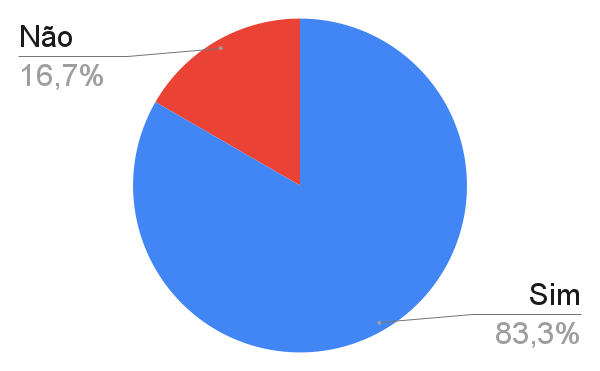
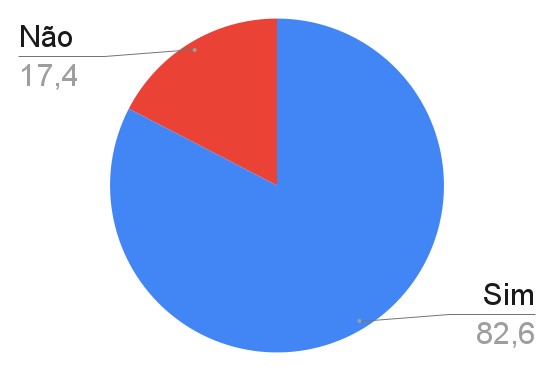
docs: Adição das ultimas coisas de requisitos

diff --git a/docs/relato-cliente/relato-sprint2.md b/docs/relato-cliente/relato-sprint2.md
@@ -27,46 +27,50 @@ Para a sprint 2 o feedback do cliente foi dividido em dois aspectos principais: 
 
 Os comentários nesta seção dizem respeito diretamente à experiência do usuário com o sistema.
 
-- [Melhorar o foco da página quando o usuário a acessa ✔](https://github.com/FGA-REQ/2024.2-6EspiasDemais/commit/0a6567bf430009604420bea5ab89853e76c0fead)
+- [adiciona o toast de cadastro ✔](https://github.com/FGA-REQ/2024.2-6EspiasDemais/commit/2c20aecd9a942897461d1d26d88d5664d29d98ea)
 
-- [Adicionar explicação sobre os formulários ✔](https://github.com/FGA-REQ/2024.2-6EspiasDemais/commit/ff45e7f0c5aa6c60420b84d77e9d450778846f47)
+- [adiciona o toast de publicação ✔](https://github.com/FGA-REQ/2024.2-6EspiasDemais/commit/339a94600eca4b92fb94ddbe7b81bbc8f7fd101f)
 
-- [Trocar a mensagem de erro "Not Found" quando não há artigos disponíveis ✔](https://github.com/FGA-REQ/2024.2-6EspiasDemais/commit/717d923961aa777b15129c2ca8401addfe6b8b66)
+- [adiciona o toast de edição e modal✔](https://github.com/FGA-REQ/2024.2-6EspiasDemais/commit/f38625f28715ee3127a1a4d3222b906ff2b30985)
 
-- [Adicionar a categoria nos artigos ✔](https://github.com/FGA-REQ/2024.2-6EspiasDemais/commit/4c3e31f58627b26355aa1ccee0fbc8e9525eceb5)
+- [adiciona o toast de exclusão ✔](https://github.com/FGA-REQ/2024.2-6EspiasDemais/commit/f38625f28715ee3127a1a4d3222b906ff2b30985)
 
 #### Feedback sobre o Formulário
 
-Os feedbacks desta seção dizem respeito à experiência do cliente ao preencher o formulário de validação do sistema:
+Os feedbacks desta seção dizem respeito à experiência do cliente ao preencher o formulário de validação. Um problema identificado foi uma pergunta repetida com diferentes propostas, gerando confusão. O erro poderia ter sido evitado com revisão prévia ou simulação do preenchimento do formulário.
 
-- As perguntas estavam pouco claras; sugeriu-se o uso de palavras mais objetivas.
-- As imagens fornecidas não foram suficientes; o cliente precisou rodar o sistema em seu próprio computador para validar as informações.
-- A explicação das perguntas deveria ser melhorada para garantir maior compreensão.
-- Foi solicitado remover os cartões das User Stories dos formulários, pois isso não era necessário para o contexto da validação.
+<font size="3"><p style="text-align: left">**Tabela 1** - Problema com as perguntas duplicadas.</p></font>
+
+| Pergunta problemática | Resposta |
+|-----------------------|----------|
+| Caso nenhum artigo tenha sido publicado, é mostrada a mensagem "Sem artigos publicados, que tal fazer uma publicação?"? | Sim |
+| Caso o usuário não tenha realizado nenhuma publicação, é exibida a mensagem "Você ainda não publicou nenhum artigo"? | A mensagem relatada na pergunta não aparece dessa forma. Mas a forma que está no site está ótima. |
+
+Autor(es): [João Vitor](https://github.com/Jauzimm), 2025.
 
 ## Formulario
 
-As perguntas feitas no formulário têm suas respostas como "Sim" ou "Não". Aqui se encontram apenas as perguntas e suas respostas, onde o foco é apenas na coleta de dados e documentação, com a inferência de um gráfico ao final, apresentando a porcentagem de aceitação pelo usuário.
+As perguntas feitas no formulário têm suas respostas como "Sim", "Não" ou "Observação". Aqui se encontram apenas as perguntas e suas respostas, onde o foco é apenas na coleta de dados e documentação, com a inferência de um gráfico ao final, apresentando a porcentagem de aceitação pelo usuário.
 
 ## Formulário de Cadastro
 
-<font size="3"><p style="text-align: left">**Tabela 1** - Respostas do formulário de cadastro.</p></font>
+<font size="3"><p style="text-align: left">**Tabela 2** - Respostas do formulário de cadastro.</p></font>
 
 | Pergunta | Resposta |
 |----------|---------|
 | O formulário de cadastro está acessível através de um link escrito "Acessar", localizado na parte superior da página, que direciona o usuário para a página de cadastro? | Sim |
 | Os campos "Nome", "E-mail" e "Senha" estão presentes e são marcados como obrigatórios? O botão "Cadastrar" permanece desativado até que todos os campos obrigatórios sejam preenchidos corretamente? | Sim |
 | O sistema valida se a senha possui os critérios mínimos de 8 caracteres, 1 letra minúscula e 1 letra maiúscula? | Sim |
-| Após o envio do formulário, o sistema exibe uma mensagem de sucesso ("Cadastro realizado com sucesso! Você já pode fazer login") ou, em caso de erro, uma mensagem clara e específica (por exemplo, "E-mail já cadastrado")? | Não |
+| Após o envio do formulário, o sistema exibe uma mensagem de sucesso ("Cadastro realizado com sucesso!") e o usuário é redirecionado para a página de Perfil, ou, em caso de erro, uma mensagem clara e específica (por exemplo, "E-mail já cadastrado")? | Não |
 | Observações | Nenhuma |
 
 ## Formulário de Acesso
 
-<font size="3"><p style="text-align: left">**Tabela 2** - Respostas do formulário de acesso.</p></font>
+<font size="3"><p style="text-align: left">**Tabela 3** - Respostas do formulário de acesso.</p></font>
 
 | Pergunta | Resposta |
 |----------|---------|
-| O formulário de acesso está acessível através de um link escrito "Acessar", localizado na parte superior da página, que direciona o usuário para a página de login? | Sim |
+| O formulário de acesso está acessível através de um link escrito "Acesso", localizado na parte superior da página, que direciona o usuário para a página de login? | Sim |
 | Os campos "E-mail" e "Senha" estão presentes e são marcados como obrigatórios? O botão "Entrar" permanece desativado até que todos os campos obrigatórios sejam preenchidos corretamente? | Sim |
 | Ao tentar realizar o login, se algum dos dados estiver incorreto, o sistema exibe a mensagem "E-mail ou senha inválidos"? | Sim |
 | Após a realização do login, o usuário é redirecionado para a página de perfil em caso de sucesso? | Sim |
@@ -74,31 +78,31 @@ As perguntas feitas no formulário têm suas respostas como "Sim" ou "Não". Aqu
 
 ## Perfil
 
-<font size="3"><p style="text-align: left">**Tabela 3** - Respostas do formulário de perfil.</p></font>
+<font size="3"><p style="text-align: left">**Tabela 4** - Respostas do formulário de perfil.</p></font>
 
 | Pergunta | Resposta |
 |----------|---------|
 | A tela de perfil está disponível na página "Perfil" e é acessível apenas para usuários que estiverem logados? | Sim |
-| O nome do usuário logado é exibido corretamente na tela de perfil? | Sim |
+| O nome do usuário logado são exibidos corretamente na tela de perfil? | Sim |
 | Caso o usuário já tenha realizado alguma publicação, elas são listadas corretamente, exibindo título, data de publicação e categoria? | Sim |
-| Caso o usuário não tenha realizado nenhuma publicação, é exibida a mensagem "Você ainda não publicou nenhum artigo"? | Não |
-| O botão "Sair" funciona corretamente, realizando o logout e redirecionando o usuário para a página de login?  | Sim |
-| Observações | A mensagem exibida não é exatamente igual à citada, mas a versão atual está aceitável. |
+| Caso o usuário não tenha realizado nenhuma publicação, é exibida a mensagem "Você ainda não publicou nenhum artigo"? | A mensagem relatada na pergunta não aparece dessa forma. Mas a forma que está no site está ótima. |
+| O botão "Sair" funciona corretamente, realizando o logout e redirecionando o usuário para a página de login? | Sim |
+| Observações | Nenhuma |
 
 ## Publicação de Artigos
 
-<font size="3"><p style="text-align: left">**Tabela 4** - Respostas do formulário de publicação de artigos.</p></font>
+<font size="3"><p style="text-align: left">**Tabela 5** - Respostas do formulário de publicação de artigos.</p></font>
 
 | Pergunta | Resposta |
 |----------|---------|
 | A funcionalidade de publicação está disponível na página "Perfil" e é acessível apenas para usuários logados? | Sim |
-| Os campos "Título", "Conteúdo" e "Categoria" estão presentes e são marcados como obrigatórios? O botão "Publicar" permanece desativado até que todos os campos obrigatórios sejam preenchidos corretamente? | Sim |
+| Os campos  Título", "Conteúdo" e "Categoria"  estão presentes e são marcados como obrigatórios? O botão "Publicar" permanece desativado até que todos os campos obrigatórios sejam preenchidos corretamente? | Sim |
 | Após enviar o formulário, o usuário recebe um retorno sobre a publicação? Se tudo der certo, aparece a mensagem "Artigo publicado com sucesso!". Caso ocorra algum erro, a mensagem exibida é "Erro ao publicar o artigo. Tente novamente mais tarde." | Não |
 | Observações | Nenhuma |
 
 ## Meus Artigos
 
-<font size="3"><p style="text-align: left">**Tabela 5** - Respostas do formulário de Meus Artigos.</p></font>
+<font size="3"><p style="text-align: left">**Tabela 6** - Respostas do formulário de Meus Artigos.</p></font>
 
 | Pergunta | Resposta |
 |----------|---------|
@@ -112,7 +116,7 @@ As perguntas feitas no formulário têm suas respostas como "Sim" ou "Não". Aqu
 
 ## Correções da 1ª Sprint
 
-<font size="3"><p style="text-align: left">**Tabela 6** - Respostas sobre as correções da 1ª Sprint.</p></font>
+<font size="3"><p style="text-align: left">**Tabela 7** - Respostas sobre as correções da 1ª Sprint.</p></font>
 
 | Pergunta | Resposta |
 |----------|---------|
@@ -123,7 +127,7 @@ Autor(es): [João Vitor](https://github.com/Jauzimm), 2025.
 
 ### Resultado
 
-Com a medição a partir de um gráfico contendo 24 perguntas respondidas, sendo 20 respostas "Sim" e 4 respostas "Não", temos a seguinte estatística de aceitação pelo cliente:
+Com a medição a partir de um gráfico contendo 23 perguntas respondidas, sendo 20 respostas "Sim" e 4 respostas "Não", temos a seguinte estatística de aceitação pelo cliente:
 
 <font size="3"><p style="text-align: left">**Imagem 1** - Gráfico das respostas.</p></font>
 
@@ -133,7 +137,7 @@ Autor(es): [João Vitor](https://github.com/Jauzimm), 2025.
 
 ## Histórico de Versões
 
-<font size="3"><p style="text-align: left">**Tabela 7** - Histórico de versões.</p></font>
+<font size="3"><p style="text-align: left">**Tabela 8** - Histórico de versões.</p></font>
 
 | Versão |               Descrição                |   Autor    |    Data    |    Revisor     | Data de revisão |
 | :----: | :------------------------------------: | :--------: | :--------: | :------------: | :-------------: |
